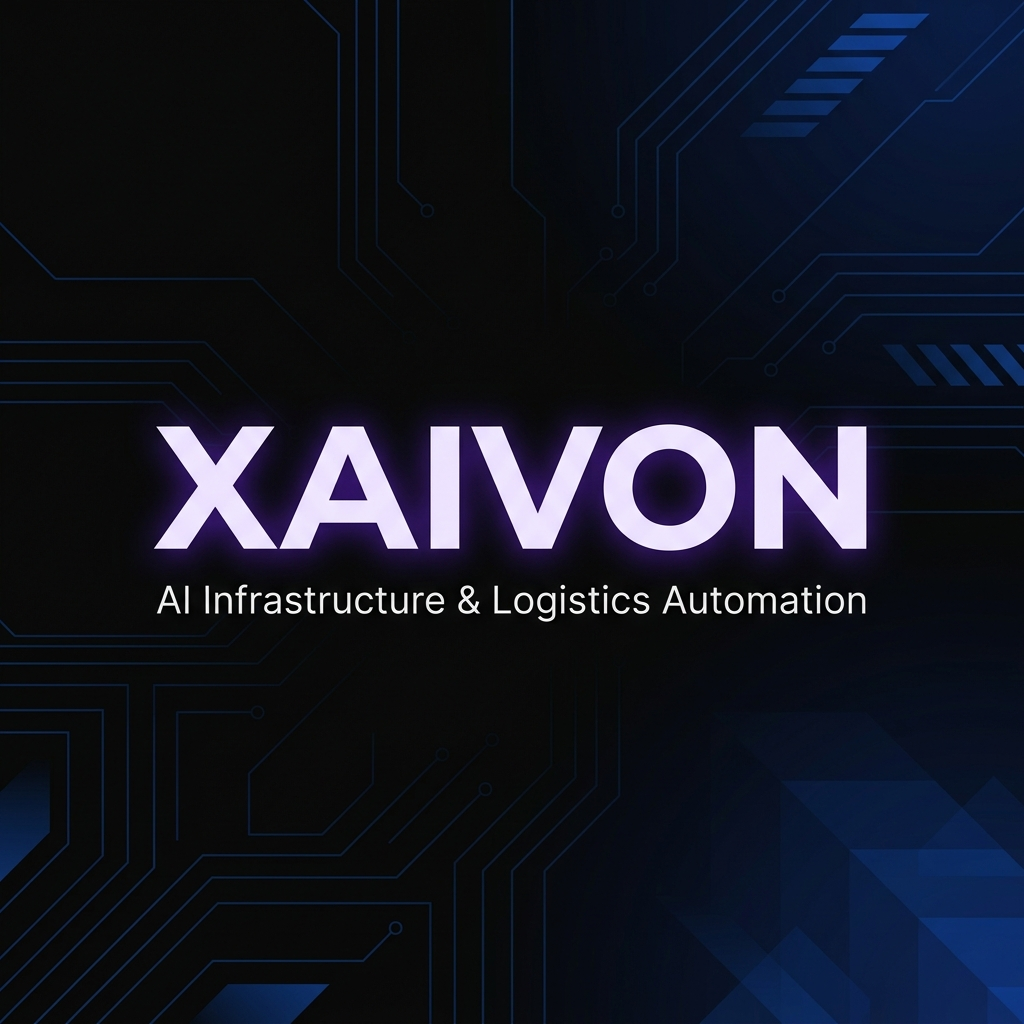
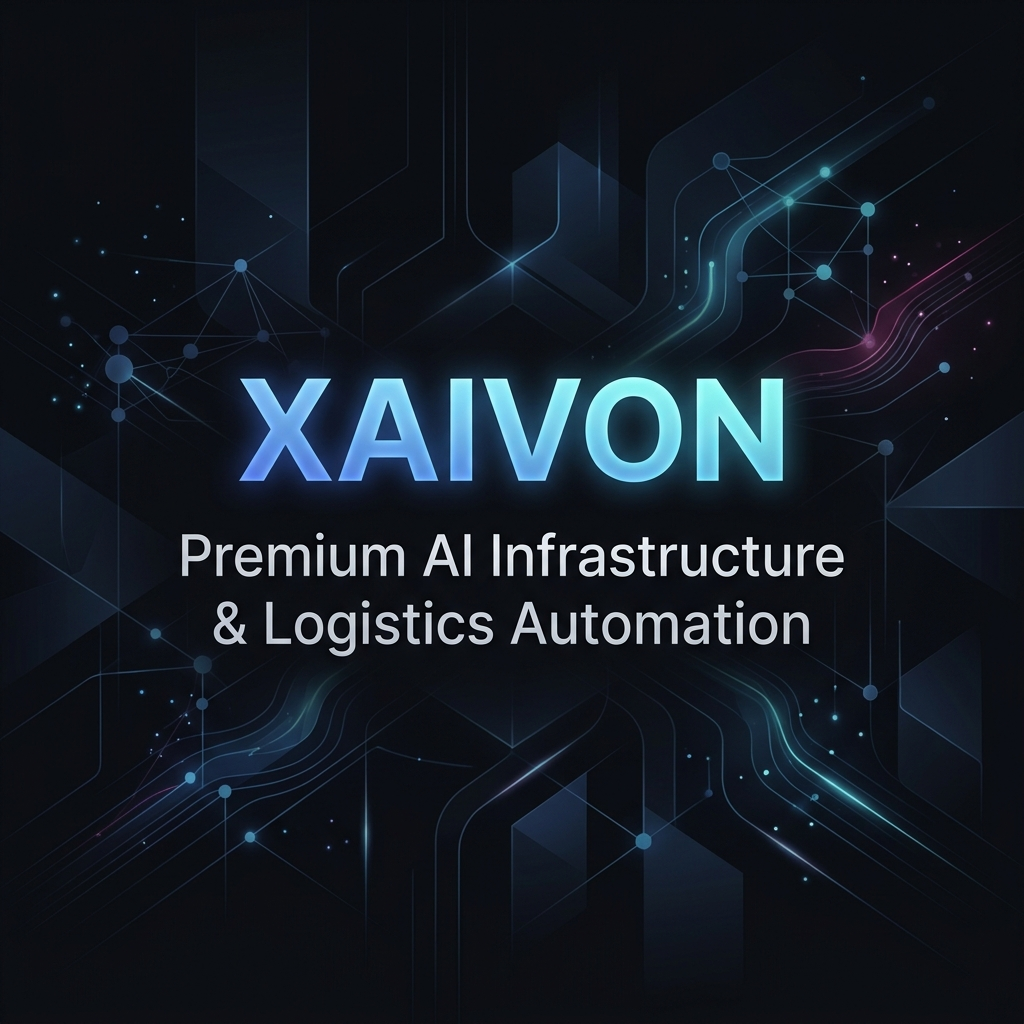
chore: Enterprise UX & SEO Optimization Pass

diff --git a/src/components/PricingSection.jsx b/src/components/PricingSection.jsx
@@ -7,99 +7,82 @@ const PRICING_DATA = {
   logistics: [
     {
       id: 'log-starter',
-      name: 'Logistics Starter',
+      name: 'Starter',
       price: '$1499',
       description: 'Foundational automation for small brokerage operations.',
       isPopular: false,
       features: [
-        'Workflow Audit',
-        'Email Automation',
-        'Lead Tracking',
-        'CRM Setup',
-        'Basic Dispatch Automation',
-        '14 Days Support'
+        'Reduce Manual Quote Handling',
+        'Basic Workflow Automation',
+        'Faster Response Times'
       ]
     },
     {
       id: 'log-growth',
-      name: 'Logistics Growth',
-      price: '$2999',
+      name: 'Growth',
+      price: '$2499',
       description: 'Complete back-office automation to scale capacity without headcount.',
       isPopular: true,
       features: [
-        'QuoteFlow AI Setup',
-        'Email Parsing',
-        'Advanced Lead Management',
-        'Dispatch Workflow Automation',
-        'AI Customer Support',
-        'Reporting Dashboard',
-        '30 Days Support'
+        'QuoteFlow AI',
+        'CRM Integration',
+        'Automated Lead Handling',
+        'Increased Operational Efficiency'
       ]
     },
     {
       id: 'log-enterprise',
-      name: 'Logistics Enterprise',
-      price: 'Custom',
+      name: 'Enterprise',
+      price: '$4999+',
       description: 'Custom AI infrastructure deeply integrated into your existing TMS.',
       isPopular: false,
       features: [
-        'TMS Integration',
-        'Custom AI Infrastructure',
-        'AI Agents',
-        'Advanced Analytics',
-        'Multi-Workflow Automation',
-        'Dedicated Optimization',
-        'Priority SLA Support'
+        'End-to-End Logistics Automation',
+        'TMS Integrations',
+        'Dispatch Automation',
+        'AI Operations Infrastructure'
       ]
     }
   ],
   website: [
     {
       id: 'web-starter',
-      name: 'Starter Website',
+      name: 'Starter',
       price: '$699',
       description: 'Best for small businesses establishing their digital presence.',
       isPopular: false,
       features: [
-        'Up to 5 Pages',
+        'Professional Business Website',
         'Mobile Responsive Design',
-        'Contact Forms',
-        'Basic SEO Setup',
-        'WhatsApp Integration',
-        'SSL Ready',
-        '14 Days Support'
+        'Fast Loading',
+        'Basic SEO Setup'
       ]
     },
     {
       id: 'web-growth',
-      name: 'Growth Website',
+      name: 'Growth',
       price: '$999',
       description: 'Ideal for businesses focused on scaling and lead generation.',
       isPopular: true,
       features: [
-        'Up to 10 Pages',
-        'Premium UI/UX',
-        'Blog Setup',
-        'Calendly Integration',
-        'Lead Capture Forms',
-        'Advanced SEO Setup',
-        '30 Days Support'
+        'Everything in Starter',
+        'Conversion-Focused Design',
+        'Advanced UI/UX',
+        'Analytics Setup'
       ]
     },
     {
       id: 'web-premium',
-      name: 'Enterprise Web Application',
-      price: '$2499+',
+      name: 'Premium',
+      price: '$1499',
       description: 'High-performance infrastructure for established enterprises.',
       isPopular: false,
       features: [
-        'Custom Web App',
-        'Unlimited Pages',
-        'Database Integration',
-        'User Authentication',
-        'CRM Integration',
-        'Performance Optimization',
-        'Priority SLA Support'
+        'Everything in Growth',
+        'Custom Animations',
+        'Advanced SEO Architecture',
+        'Lead Generation Optimization',
+        'Enterprise-Level Experience'
       ]
     }
   ],

diff --git a/src/pages/Blog.jsx b/src/pages/Blog.jsx
@@ -22,7 +22,7 @@ const posts = [
   },
   {
     id: 'freight-operations-scaling-without-headcount',
-    tag: 'FREIGHT OPERATIONS',
+    tag: 'FREIGHT TECHNOLOGY',
     title: 'Scaling Freight Operations Without Adding Headcount',
     date: 'July 5, 2026',
     readTime: '7 min read',
@@ -30,36 +30,20 @@ const posts = [
   },
   {
     id: 'business-systems-ai-audits',
-    tag: 'BUSINESS SYSTEMS',
+    tag: 'BUSINESS PROCESS AUTOMATION',
     title: 'Conducting an AI Audit on Your Business Systems',
     date: 'June 28, 2026',
     readTime: '8 min read',
     excerpt: 'A step-by-step guide to evaluating your existing software stack and identifying the highest ROI opportunities for automation.',
   },
   {
-    id: 'ai-strategy-for-executives',
-    tag: 'AI STRATEGY',
-    title: 'The Executive Guide to Building an AI Strategy',
+    id: 'crm-automation-lead-management',
+    tag: 'CRM SYSTEMS',
+    title: 'Automating Lead Routing and CRM Data Entry',
     date: 'June 20, 2026',
     readTime: '5 min read',
-    excerpt: 'Why adopting an "AI-first" mindset requires a shift in leadership thinking, budget allocation, and technical hiring.',
-  },
-  {
-    id: 'workflow-automation-examples',
-    tag: 'WORKFLOW AUTOMATION',
-    title: '10 Complex Workflows You Can Automate Today',
-    date: 'June 15, 2026',
-    readTime: '6 min read',
-    excerpt: 'Stop relying on manual data entry. We break down 10 specific processes across finance, HR, and operations that AI can handle.',
-  },
-  {
-    id: 'lead-generation-ai-voice-agents',
-    tag: 'LEAD GENERATION',
-    title: 'Transforming Lead Generation with AI Voice Agents',
-    date: 'June 5, 2026',
-    readTime: '4 min read',
-    excerpt: 'How outbound and inbound call centers are utilizing low-latency AI voice agents to qualify leads 24/7 without human intervention.',
-  },
+    excerpt: 'How outbound and inbound call centers are utilizing low-latency AI to update CRMs instantly, without human intervention.',
+  }
 ];
 
 export default function Blog() {

diff --git a/src/components/Footer.jsx b/src/components/Footer.jsx
@@ -22,31 +22,13 @@ export default function Footer() {
                 }
               }}
             >
-              <img src="/xaivon-logo.svg" alt="XAIVON Logo" className="footer-logo-icon" width="40" height="40" />
+              <img src="/xaivon-logo.svg" alt="XAIVON Logo" className="footer-logo-icon" width="40" height="40" loading="lazy" />
               <span>XAIVON</span>
             </Link>
             <p className="footer-desc">
               Enterprise AI infrastructure and logistics automation. We build scalable systems that eliminate operational friction and accelerate growth.
             </p>
-            <div className="footer-socials">
-              <a href="#" className="social-link" aria-label="LinkedIn" target="_blank" rel="noopener noreferrer">
-                <svg width="20" height="20" viewBox="0 0 24 24" fill="none" stroke="currentColor" strokeWidth="2" strokeLinecap="round" strokeLinejoin="round">
-                  <path d="M16 8a6 6 0 0 1 6 6v7h-4v-7a2 2 0 0 0-2-2 2 2 0 0 0-2 2v7h-4v-7a6 6 0 0 1 6-6z" />
-                  <rect x="2" y="9" width="4" height="12" />
-                  <circle cx="4" cy="4" r="2" />
-                </svg>
-              </a>
-              <a href="#" className="social-link" aria-label="Twitter" target="_blank" rel="noopener noreferrer">
-                <svg width="20" height="20" viewBox="0 0 24 24" fill="none" stroke="currentColor" strokeWidth="2" strokeLinecap="round" strokeLinejoin="round">
-                  <path d="M22 4s-.7 2.1-2 3.4c1.6 10-9.4 17.3-18 11.6 2.2.1 4.4-.6 6-2C3 15.5.5 9.6 3 5c2.2 2.6 5.6 4.1 9 4-.9-4.2 4-6.6 7-3.8 1.1 0 3-1.2 3-1.2z" />
-                </svg>
-              </a>
-              <a href="#" className="social-link" aria-label="GitHub" target="_blank" rel="noopener noreferrer">
-                <svg width="20" height="20" viewBox="0 0 24 24" fill="none" stroke="currentColor" strokeWidth="2" strokeLinecap="round" strokeLinejoin="round">
-                  <path d="M9 19c-5 1.5-5-2.5-7-3m14 6v-3.87a3.37 3.37 0 0 0-.94-2.61c3.14-.35 6.44-1.54 6.44-7A5.44 5.44 0 0 0 20 4.77 5.07 5.07 0 0 0 19.91 1S18.73.65 16 2.48a13.38 13.38 0 0 0-7 0C6.27.65 5.09 1 5.09 1A5.07 5.07 0 0 0 5 4.77a5.44 5.44 0 0 0-1.5 3.78c0 5.42 3.3 6.61 6.44 7A3.37 3.37 0 0 0 9 18.13V22" />
-                </svg>
-              </a>
-            </div>
+              {/* Socials removed per request until official accounts exist */}
           </div>
 
           {/* Links Columns */}
@@ -79,8 +61,10 @@ export default function Footer() {
                 <li><a href="mailto:[email redacted]">[email redacted]</a></li>
               </ul>
               
-              <div className="footer-trust-badge">
-                <span>✓ Enterprise-Grade Security Practices</span>
+              <div className="footer-trust-badge" style={{ display: 'flex', flexDirection: 'column', gap: '0.25rem', marginTop: '1rem', color: 'var(--text-muted)' }}>
+                <span>✓ Enterprise Security Standards</span>
+                <span>✓ Built For Long-Term Growth</span>
+                <span>✓ Response Within 12 Hours</span>
               </div>
             </div>
           </div>

diff --git a/index.html b/index.html
@@ -8,9 +8,9 @@
     <meta name="viewport" content="width=device-width, initial-scale=1.0" />
 
     <!-- Primary SEO -->
-    <title>XAIVON — AI-Powered Business Infrastructure Company</title>
-    <meta name="description" content="XAIVON builds AI systems, automations, agents, and business infrastructure that help companies automate operations, increase efficiency, and scale without complexity." />
-    <meta name="keywords" content="AI automation, AI agents, AI voice agents, business automation, logistics AI, freight automation, CRM automation, lead management, XAIVON" />
+    <title>XAIVON — Premium AI Infrastructure & Logistics Automation</title>
+    <meta name="description" content="XAIVON designs enterprise-grade AI systems, automating logistics, dispatch, and business operations to help companies scale without increasing headcount." />
+    <meta name="keywords" content="AI automation, logistics automation, freight AI, dispatch automation, AI infrastructure, XAIVON" />
     <meta name="author" content="XAIVON" />
     <meta name="robots" content="index, follow" />
 
@@ -96,6 +96,24 @@
     <meta name="msapplication-TileColor" content="#0A0A0A" />
   </head>
   <body>
+    <!-- Google Analytics 4 (Placeholder) -->
+    <script async src="https://www.googletagmanager.com/gtag/js?id=G-XXXXXXXXXX"></script>
+    <script>
+      window.dataLayer = window.dataLayer || [];
+      function gtag(){dataLayer.push(arguments);}
+      gtag('js', new Date());
+      gtag('config', 'G-XXXXXXXXXX');
+    </script>
+
+    <!-- Microsoft Clarity (Placeholder) -->
+    <script type="text/javascript">
+      (function(c,l,a,r,i,t,y){
+          c[a]=c[a]||function(){(c[a].q=c[a].q||[]).push(arguments)};
+          t=l.createElement(r);t.async=1;t.src="https://www.clarity.ms/tag/"+i;
+          y=l.getElementsByTagName(r)[0];y.parentNode.insertBefore(t,y);
+      })(window, document, "clarity", "script", "clarity_id_placeholder");
+    </script>
+
     <div id="root"></div>
     <script type="module" src="/src/main.jsx"></script>
   </body>

diff --git a/src/components/IndustriesSection.jsx b/src/components/IndustriesSection.jsx
@@ -25,7 +25,7 @@ const INDUSTRIES = [
     )
   },
   {
-    title: 'Transportation',
+    title: 'Transportation Companies',
     description: 'Optimize route planning, track fleets in real-time, and manage driver communications autonomously.',
     icon: (
       <svg width="24" height="24" viewBox="0 0 24 24" fill="none" stroke="currentColor" strokeWidth="1.5" strokeLinecap="round" strokeLinejoin="round">
@@ -45,7 +45,7 @@ const INDUSTRIES = [
     )
   },
   {
-    title: 'Warehousing',
+    title: 'Warehousing Operations',
     description: 'Intelligent inventory forecasting, automated POD processing, and supply chain visibility.',
     icon: (
       <svg width="24" height="24" viewBox="0 0 24 24" fill="none" stroke="currentColor" strokeWidth="1.5" strokeLinecap="round" strokeLinejoin="round">
@@ -56,7 +56,16 @@ const INDUSTRIES = [
     )
   },
   {
-    title: 'Professional Services',
+    title: 'Service Businesses',
+    description: 'Automate lead qualification, appointment booking, and customer follow-ups to maximize sales conversions.',
+    icon: (
+      <svg width="24" height="24" viewBox="0 0 24 24" fill="none" stroke="currentColor" strokeWidth="1.5" strokeLinecap="round" strokeLinejoin="round">
+        <path d="M22 12h-4l-3 9L9 3l-3 9H2" />
+      </svg>
+    )
+  },
+  {
+    title: 'Professional Service Firms',
     description: 'Scale client onboarding, document processing, and administrative tasks using reliable AI infrastructure.',
     icon: (
       <svg width="24" height="24" viewBox="0 0 24 24" fill="none" stroke="currentColor" strokeWidth="1.5" strokeLinecap="round" strokeLinejoin="round">

diff --git a/src/components/AIAudit.jsx b/src/components/AIAudit.jsx
@@ -282,13 +282,14 @@ export default function AIAudit() {
                   id="audit-submit-btn"
                   disabled={cooldown > 0}
                 >
-                  {cooldown > 0 ? `Wait ${cooldown}s` : 'Request Assessment →'}
+                  {cooldown > 0 ? `Wait ${cooldown}s` : 'Get a Free AI Infrastructure Assessment'}
                 </button>
 
                 <div className="ai-audit-trust-indicators" style={{ marginTop: '1.5rem', display: 'flex', flexDirection: 'column', gap: '0.5rem', color: 'var(--text-muted)', fontSize: '0.85rem', textAlign: 'center' }}>
                   <span>✓ Secure & Encrypted</span>
                   <span>✓ Response Within 12 Hours</span>
                   <span>✓ Built For Long-Term Growth</span>
+                  <span style={{ marginTop: '0.5rem', fontSize: '0.75rem' }}>Your information is encrypted and never shared with third parties.</span>
                 </div>
               </form>
             )}

diff --git a/src/components/CTABanner.jsx b/src/components/CTABanner.jsx
@@ -29,7 +29,7 @@ export default function CTABanner() {
             className="btn btn-secondary btn-lg"
             id="cta-banner-contact"
           >
-            Contact Us
+            Get a Free AI Infrastructure Assessment
           </Link>
         </div>
       </div>

diff --git a/src/components/FounderSection.jsx b/src/components/FounderSection.jsx
@@ -43,7 +43,7 @@ export default function FounderSection() {
               <div className="founder-block">
                 <h4>Our Mission</h4>
                 <p>
-                  We build resilient, deeply integrated AI infrastructure that handles the heavy lifting. By systematically automating complex, repetitive workflows, our mission is to eliminate operational friction and restore your profit margins, allowing your team to focus exclusively on high-value strategic execution.
+                  Our mission is to eliminate operational friction, reduce manual data entry, and drastically increase your response speed. By systematically automating complex workflows, we restore your profit margins and empower your team to focus exclusively on high-value strategic execution instead of repetitive tasks.
                 </p>
               </div>
 

diff --git a/src/pages/Contact.jsx b/src/pages/Contact.jsx
@@ -179,7 +179,7 @@ export default function Contact() {
               <PopupButton
                 url="https://calendly.com/raja-xaivon/30min"
                 rootElement={document.getElementById('root')}
-                text="Book Your Strategy Call"
+                text="Schedule a Strategy Call"
                 className="btn btn-primary btn-lg"
                 styles={{ width: '100%', maxWidth: '300px' }}
               />